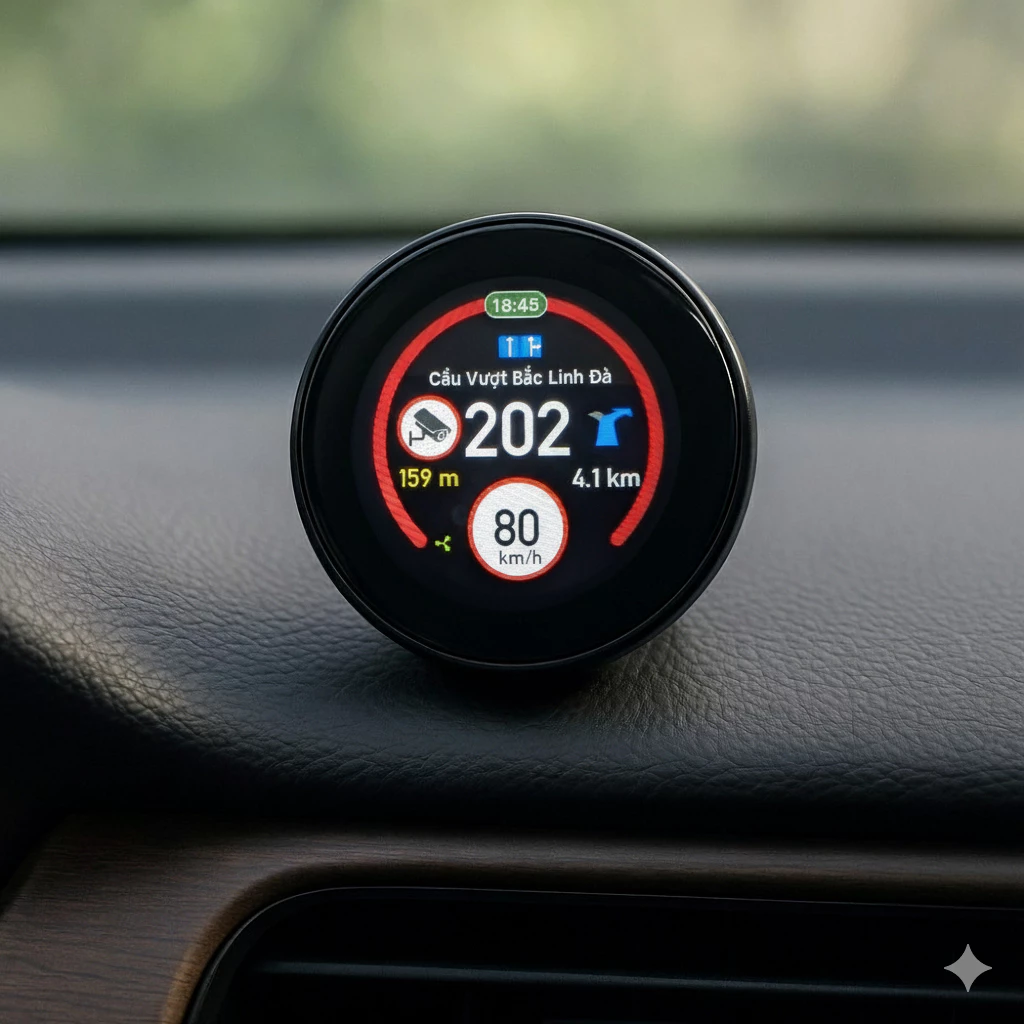
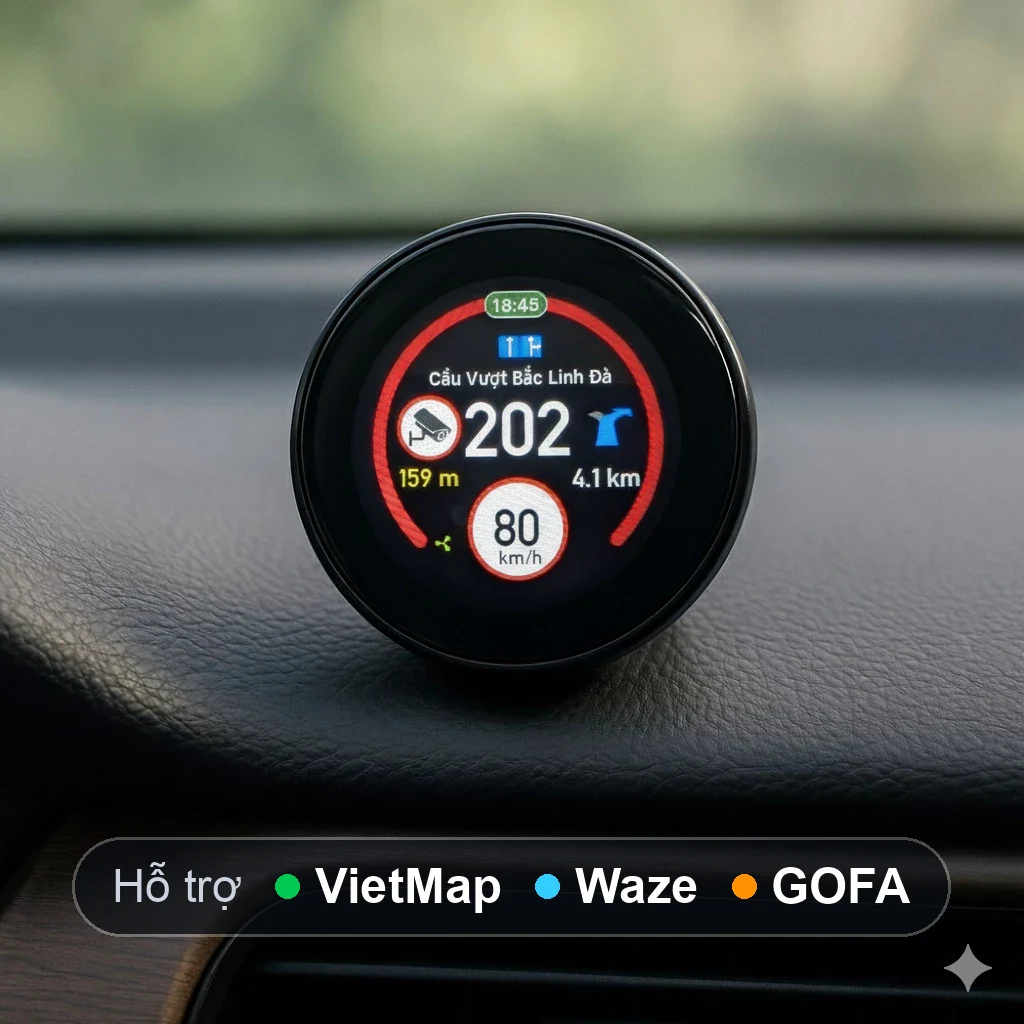
Pre-deploy: save changes at 2026-11-26 10:39:58

Changed region(s): [[0.0625, 0.8125, 0.9375, 0.9375]]

diff --git a/index.html b/index.html
@@ -417,10 +417,7 @@
       </div>
 
       <div class="device-card" style="--card-color:#f59e0b;">
-        <a href="plus/index.html" class="device-img two" data-track="open_device:plus">
-          <img src="assets/images/plus_1.webp" alt="OneHUD Plus" loading="lazy">
-          <img src="assets/images/plus_2.webp" alt="OneHUD Colorful" loading="lazy">
-        </a>
+        <a href="plus/index.html" class="device-img" data-track="open_device:plus"><img src="assets/images/plus.webp" alt="OneHUD Plus | Colorful" loading="lazy"></a>
         <div class="device-body">
           <h3><i class="fas fa-bolt"></i>Plus | Colorful</h3>
           <div class="device-actions">
